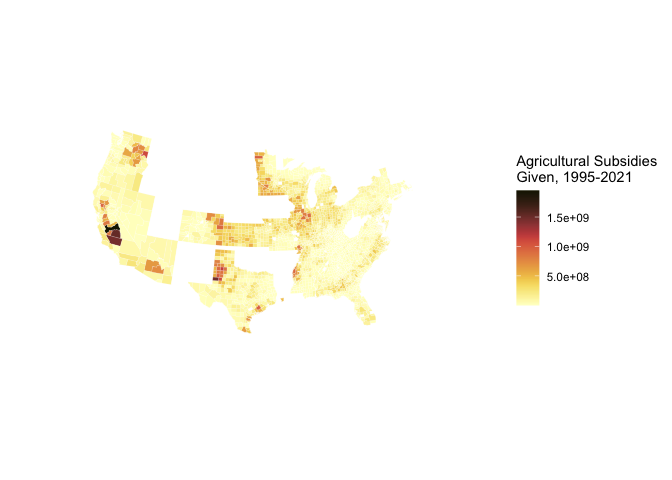
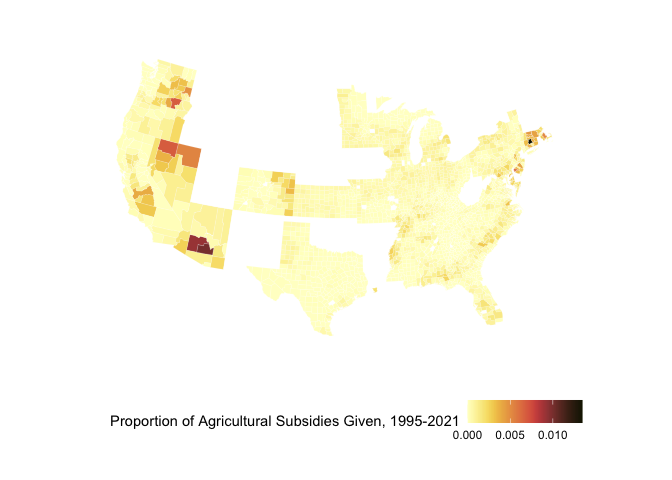
added relative perc_natl_total variable for relative assessment of county-level subsidy payments

Changed region(s): [[0.125, 0.125, 0.9688, 0.7188], [0.1562, 0.8125, 0.875, 0.9375]]

diff --git a/analysis/analysis-script.md b/analysis/analysis-script.md
@@ -223,38 +223,6 @@ ggplot(us_counties,aes(x=long,y=lat,group=group,fill=subregion)) +
 ```
 
 ![](analysis-script_files/figure-gfm/unnamed-chunk-11-1.png)<!-- -->
-Need to prep data for left_join
-
-left_join(x,y,by=join_by(colname1==colname2))
-
-``` r
-read_csv("/Users/kenjinchang/github/seasonality-of-us-meat-consumption/data/county_data.csv") 
-```
-
-    ## Rows: 2305 Columns: 5
-    ## ── Column specification ────────────────────────────────────────────────────────
-    ## Delimiter: ","
-    ## chr (3): county, state_abb, state
-    ## dbl (2): total_subsidies_1995_2021, perc_state_total
-    ## 
-    ## ℹ Use `spec()` to retrieve the full column specification for this data.
-    ## ℹ Specify the column types or set `show_col_types = FALSE` to quiet this message.
-
-    ## # A tibble: 2,305 × 5
-    ##    county                total_subsidies_1995_2021 perc_state_to…¹ state…² state
-    ##    <chr>                                     <dbl>           <dbl> <chr>   <chr>
-    ##  1 Gaines County, Texas                 1476802523           0.033 TX      Texas
-    ##  2 Hale County, Texas                   1159637316           0.026 TX      Texas
-    ##  3 Dawson County, Texas                 1110737641           0.025 TX      Texas
-    ##  4 Terry County, Texas                   987748081           0.022 TX      Texas
-    ##  5 Wharton County, Texas                 954867910           0.021 TX      Texas
-    ##  6 Lamb County, Texas                    928633397           0.021 TX      Texas
-    ##  7 Floyd County, Texas                   877686118           0.02  TX      Texas
-    ##  8 Lubbock County, Texas                 874170512           0.02  TX      Texas
-    ##  9 Lynn County, Texas                    830835732           0.019 TX      Texas
-    ## 10 Hockley County, Texas                 830765051           0.019 TX      Texas
-    ## # … with 2,295 more rows, and abbreviated variable names ¹perc_state_total,
-    ## #   ²state_abb
 
 ``` r
 county_data <- read_csv("/Users/kenjinchang/github/seasonality-of-us-meat-consumption/data/county_data.csv") %>%
@@ -262,7 +230,8 @@ county_data <- read_csv("/Users/kenjinchang/github/seasonality-of-us-meat-consum
   mutate(county_abb=str_remove_all(county_no_state, " County")) %>%
   mutate(state=tolower(state),county_abb=tolower(county_abb)) %>%
   unite(id,c("state","county_abb"),sep=", ",remove=FALSE) %>%
-  select(id,total_subsidies_1995_2021,perc_state_total)
+  select(id,total_subsidies_1995_2021,perc_state_total) %>%
+  mutate(perc_natl_total=perc_state_total/sum(perc_state_total))
 ```
 
     ## Rows: 2305 Columns: 5
@@ -279,15 +248,15 @@ county_data %>%
   head(6)
 ```
 
-    ## # A tibble: 6 × 3
-    ##   id             total_subsidies_1995_2021 perc_state_total
-    ##   <chr>                              <dbl>            <dbl>
-    ## 1 texas, gaines                 1476802523            0.033
-    ## 2 texas, hale                   1159637316            0.026
-    ## 3 texas, dawson                 1110737641            0.025
-    ## 4 texas, terry                   987748081            0.022
-    ## 5 texas, wharton                 954867910            0.021
-    ## 6 texas, lamb                    928633397            0.021
+    ## # A tibble: 6 × 4
+    ##   id             total_subsidies_1995_2021 perc_state_total perc_natl_total
+    ##   <chr>                              <dbl>            <dbl>           <dbl>
+    ## 1 texas, gaines                 1476802523            0.033        0.00108 
+    ## 2 texas, hale                   1159637316            0.026        0.000854
+    ## 3 texas, dawson                 1110737641            0.025        0.000821
+    ## 4 texas, terry                   987748081            0.022        0.000722
+    ## 5 texas, wharton                 954867910            0.021        0.000689
+    ## 6 texas, lamb                    928633397            0.021        0.000689
 
 ``` r
 county_map <- map_data("county") %>%
@@ -317,29 +286,36 @@ county_full %>%
     ## 4 -86.55673 32.37785     1     4 alabama, autauga alabama   autauga
     ## 5 -86.57966 32.38357     1     5 alabama, autauga alabama   autauga
     ## 6 -86.59111 32.37785     1     6 alabama, autauga alabama   autauga
-    ##   total_subsidies_1995_2021 perc_state_total
-    ## 1                  61027557            0.012
-    ## 2                  61027557            0.012
-    ## 3                  61027557            0.012
-    ## 4                  61027557            0.012
-    ## 5                  61027557            0.012
-    ## 6                  61027557            0.012
+    ##   total_subsidies_1995_2021 perc_state_total perc_natl_total
+    ## 1                  61027557            0.012    0.0003939593
+    ## 2                  61027557            0.012    0.0003939593
+    ## 3                  61027557            0.012    0.0003939593
+    ## 4                  61027557            0.012    0.0003939593
+    ## 5                  61027557            0.012    0.0003939593
+    ## 6                  61027557            0.012    0.0003939593
 
 ``` r
 ggplot(county_full,aes(x=long,y=lat,fill=total_subsidies_1995_2021,group=group)) + 
   geom_polygon(color="white",linewidth=0.05) +
   coord_map(projection="albers",lat0=39,lat1=45) + 
   scale_fill_scico(palette="lajolla",na.value="white") +
-  labs(fill="Agricultural Subsidies\nGiven, 1995-2021") +
+  labs(fill="Total Agricultural SubsidiesGiven, 1995-2021") +
   xlab("") + 
   ylab("") +
-  theme(panel.grid=element_blank(),panel.background=element_blank(),axis.text=element_blank(),axis.ticks=element_blank())
+  theme(legend.position="bottom",panel.grid=element_blank(),panel.background=element_blank(),axis.text=element_blank(),axis.ticks=element_blank())
+```
+
+![](analysis-script_files/figure-gfm/unnamed-chunk-15-1.png)<!-- -->
+
+``` r
+ggplot(county_full,aes(x=long,y=lat,fill=perc_natl_total,group=group)) + 
+  geom_polygon(color="white",linewidth=0.05) +
+  coord_map(projection="albers",lat0=39,lat1=45) + 
+  scale_fill_scico(palette="lajolla",na.value="white") +
+  labs(fill="Proportion of Agricultural Subsidies Given, 1995-2021") +
+  xlab("") + 
+  ylab("") +
+  theme(legend.position="bottom",panel.grid=element_blank(),panel.background=element_blank(),axis.text=element_blank(),axis.ticks=element_blank())
 ```
 
 ![](analysis-script_files/figure-gfm/unnamed-chunk-16-1.png)<!-- -->
-geom_polygon(color=“gray90”,linewidth=0.1) +
-coord_map(projection=“albers”,lat0=39,lat1=45) + guides(fill=“none”)+
-theme(axis.line=element_blank(), axis.text=element_blank(),
-axis.ticks=element_blank(), axis.title=element_blank(),
-panel.background=element_blank(), panel.border=element_blank(),
-panel.grid=element_blank())
